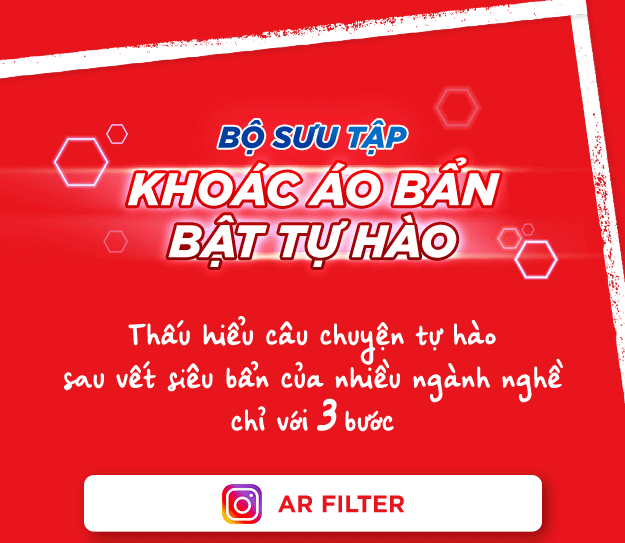
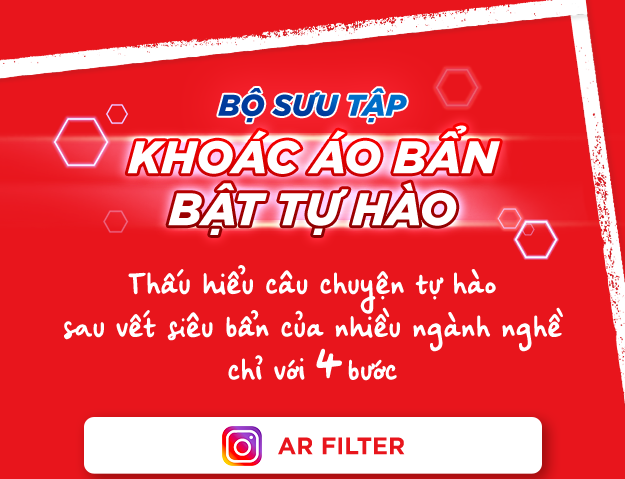
Update landpage

diff --git a/docs/index.html b/docs/index.html
@@ -15,13 +15,13 @@
 </head>
 <body style="background-color: #e8151c;" style="margin: 0; padding: 0;">
     <div class="text-center" height="100%" style="margin: 0; padding: 0;">
-        <div max-height="42%" style="margin: 0; padding: 0;">
+        <div max-height="37%" style="margin: 0; padding: 0;">
             <a href="https://www.instagram.com/ar/1457100364784253/">
                 <img src="https://hieupth.github.io/sparkar.omo/01.png" max-height="100%">
             </a>
         </div>
-        <div max-height="58%" style="margin: 0; padding: 0;">
-            <a href="https://www.facebook.com/fbcameraeffects/tryit/1119345082323185/">
+        <div max-height="63%" style="margin: 0; padding: 0;">
+            <a href="https://www.facebook.com/fbcameraeffects/tryit/5828087213878997/">
                 <img src="https://hieupth.github.io/sparkar.omo/02.png" max-height="100%">
             </a>
         </div>
